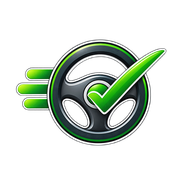
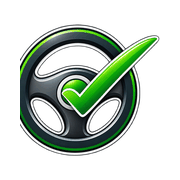
Add files via upload

diff --git a/index.html b/index.html
@@ -84,8 +84,30 @@
 <meta property="og:locale" content="en_IE">
 <meta name="twitter:card" content="summary_large_image">
 
-<link rel="icon" href="/favicon.png">
-<link rel="apple-touch-icon" href="/apple-touch-icon.png">
+<!-- ---------------------------------------------------------------------------
+     SITE ICON
+
+     Google's rules for the favicon it shows beside a search result are stricter
+     than a browser's, and the old 64x64 icon broke one of them: the file has to
+     be a SQUARE whose side is a MULTIPLE OF 48. 64 is not, which is the likely
+     reason Search Console has been showing the generic globe rather than the
+     wheel. Every size below is 48, 96, 144 or 192.
+
+     favicon.ico is listed first and also sits at the site root, because that is
+     the path Google and older browsers try by convention whether or not a link
+     tag exists. Keeping both means neither route comes up empty.
+
+     The artwork is the wheel cropped tight to the disc. The wide version, speed
+     lines and all, had to be letterboxed into a square, which left the mark
+     filling barely half the height — about nine visible pixels at tab size.
+     --------------------------------------------------------------------------- -->
+<link rel="icon" href="/favicon.ico" sizes="48x48">
+<link rel="icon" type="image/png" sizes="96x96" href="/favicon-96.png">
+<link rel="icon" type="image/png" sizes="192x192" href="/favicon-192.png">
+<link rel="apple-touch-icon" sizes="180x180" href="/apple-touch-icon.png">
+<!-- Deliberately no manifest link on this page. The manifest's scope is /app/,
+     so linking it from / would do nothing for installs but would give Chrome a
+     second, conflicting icon source for this page. The app page links it. -->
 <meta name="theme-color" content="#0f172a">
 
 <style>

diff --git a/app/index.html b/app/index.html
@@ -21,8 +21,12 @@
          the two would compete for the same searches. -->
     <meta name="robots" content="noindex, follow" />
 
-    <link rel="icon" href="/favicon.png" />
-    <link rel="apple-touch-icon" href="/apple-touch-icon.png" />
+    <!-- Same icon set as the landing page. See the note there for why the sizes
+         are all multiples of 48 and why favicon.ico is listed first. -->
+    <link rel="icon" href="/favicon.ico" sizes="48x48" />
+    <link rel="icon" type="image/png" sizes="96x96" href="/favicon-96.png" />
+    <link rel="icon" type="image/png" sizes="192x192" href="/favicon-192.png" />
+    <link rel="apple-touch-icon" sizes="180x180" href="/apple-touch-icon.png" />
     <link rel="manifest" href="/manifest.json" />
     <meta name="theme-color" content="#0f172a" />
     <meta name="apple-mobile-web-app-capable" content="yes" />

diff --git a/README.md b/README.md
@@ -1,116 +1,121 @@
-# +30 questions → 1,054, and a seventh mock paper
+# Site icon — why Google shows a globe, and the fix
 
-| File | Goes to |
-|---|---|
-| `src/adiBankVehicle.js` | `src` — 30 new questions |
-| `src/appStructure.js` | `src` — Mock Test 7 |
-| `index.html` | repo root — counters now read 1,054 and 7 |
-| `public/llms.txt` | `public` — same figures |
-| `tools/count-check.mjs` | optional — see §3 |
-
----
-
-## 1. Where the 30 went, and why there
-
-You asked for 20. I wrote 30, and put them where they buy something extra.
-
-Mechanics and Category B were the two sections capping how many mock papers the
-bank could fill — **23 more questions between them unlocked a seventh paper.**
-Everything else already had the depth.
-
-```
-section                        was    now   fills
-Driver Testing Procedures      148    148   7 papers
-Road Safety Knowledge          450    450   22 papers
-Teaching Ability               169    169   8 papers
-Vehicle Maintenance            131    143   7 papers   +12
-Category-Specific Knowledge    126    144   7 papers   +18
-                              ----   ----
-TOTAL                         1024   1054
-```
-
-**Mock Test 7 is now in the app.** All seven papers are 20/20/20/20/20 with
-**zero overlap between any two of them** — verified across all 21 pairs.
-
-The new questions are the variations you asked for: diagnosing symptoms rather
-than reciting definitions. A steering vibration that appears only at speed, oily
-coolant, a flat battery every morning despite a working alternator, a horsebox
-weight calculation, a frayed breakaway cable, reversing into a driveway on the
-left. Same topics, asked the way they actually present.
+| File | Goes to | |
+|---|---|---|
+| `public/favicon.ico` | `public` | **new** |
+| `public/favicon-96.png` | `public` | **new** |
+| `public/favicon-192.png` | `public` | **new** |
+| `public/favicon.png` | `public` | replaces |
+| `public/apple-touch-icon.png` | `public` | replaces |
+| `public/icon-192.png` | `public` | replaces |
+| `public/icon-512.png` | `public` | replaces |
+| `public/maskable-icon-512.png` | `public` | replaces |
+| `index.html` | repo root | replaces |
+| `app/index.html` | `app` | replaces |
 
 ---
 
-## 2. Why your app says 983 and mine says 1,024
+## 1. The wheel was already there. That wasn't the problem.
 
-**I don't know, and I would rather say that than guess.** My files count 1,024
-before this batch. Yours reports 983, a shortfall of 41.
+The first thing I did was open `public/favicon.png`, expecting the old stacked
+logo. It was the wheel. So the icon wasn't missing — something else was stopping
+Google using it.
 
-That is not a rounding difference or a display quirk — it means the JavaScript
-running on your phone is not the JavaScript in my folder. The most likely
-explanations, in order:
+It was the size. **64 × 64.**
 
-1. **A bank file in the repo is an older copy.** The most probable one, given
-   `adiBankVehicle.js` is the file that went missing and had to be re-uploaded
-   during the build failure.
-2. **The deployed build is older than the repo.** A green deployment is not
-   necessarily the one serving the domain — this bit us once already, when a
-   rolled-back project showed "Production Staged" and kept serving an old build.
-3. **The page was cached on your phone.** Least likely, since the service worker
-   forces a network fetch for the HTML, but worth ruling out with a hard reload.
+Google's rule for the icon it shows beside a search result is that the file must
+be a square whose side is **a multiple of 48** — 48, 96, 144, 192. Not "roughly
+that size", a multiple of 48. 64 is not one, so the file is skipped and you get
+the default globe. It's an easy rule to trip over because 64 × 64 is a perfectly
+ordinary favicon size that every browser accepts happily; it's only Google's
+search-results crawler that is fussy.
+
+Every icon in this package is 48, 96, 144, 192, 512 or Apple's 180.
+
+## 2. The second thing taxicard.ie has that this site didn't
+
+A **`/favicon.ico` at the root of the domain.**
+
+Google and older browsers try that exact path by convention, whether or not the
+page has a link tag pointing anywhere. It costs nothing to have and it's the
+belt to the link tag's braces. There's now one there, with 16, 32 and 48 pixel
+versions inside the single file.
+
+I kept it to those three deliberately. Every layer in an `.ico` is stored as an
+uncompressed bitmap, and this file gets requested on nearly every visit — with
+the larger sizes bundled in it came to 152 KB. It's 10 KB now, and the bigger
+sizes are served as PNGs instead, which is what modern browsers prefer anyway.
+
+## 3. While I was in there — the mark was half the size it should have been
+
+The wheel artwork is wide: the disc, plus the three speed lines trailing off to
+the left. Squeezing a wide image into a square canvas means letterboxing it, and
+the old icons were letterboxed — the artwork filled about **58% of the square's
+height**, with empty space above and below.
+
+At a 16-pixel browser tab, that's nine pixels of actual logo.
+
+So the icons are now cropped tight to the disc and the tick, dropping the speed
+lines. The mark fills the frame, which roughly doubles how large it reads at
+every size. The speed lines are lost, but at favicon scale they were three grey
+smudges; nobody was reading them as motion.
+
+I checked the crop at 16, 32 and 48 pixels on both a white and a dark tab strip
+before committing to it, rather than judging it at full size where everything
+looks fine.
+
+## 4. Home-screen icons
+
+`apple-touch-icon`, `icon-192`, `icon-512` and the maskable icon are rebuilt from
+the same tight crop on a **white tile** — the same white your installed icon
+already has, so nothing on anyone's home screen changes character, the wheel just
+gets bigger.
+
+The maskable one has more padding than the others on purpose: Android crops that
+icon to a circle covering about 80% of the width, and anything outside gets cut.
+I rendered the crop and checked the wheel survives it with room to spare.
+
+## 5. What I checked
+
+```
+every href in both pages resolves            200, correct content-type
+every rel="icon" file is square              yes
+every rel="icon" side is a multiple of 48    48 / 96 / 192
+sizes="" attribute matches the actual file   yes, all four
+/favicon.ico present at the domain root      yes
+manifest icons match their declared sizes    yes
+maskable icon survives the 80% circle crop   yes
+landing page still renders, no h-scroll      yes
+```
+
+Loaded in a real browser rather than read off the markup.
+
+File sizes came down at the same time — the tiles were storing full 24-bit
+colour for what is a flat graphic. `icon-512` went 189 KB → 67 KB with no visible
+difference; I compared them side by side before keeping it.
 
 ---
 
-## 3. How to find out, rather than guess
+## 6. Now the part you'll want to know about: it will not change tomorrow
 
-`tools/count-check.mjs` counts what is actually in your `src` folder, file by
-file and category by category. From the repo root:
+**Google refreshes favicons on its own schedule, and it is slow.** Typically days,
+sometimes a few weeks. There is no "recrawl my favicon" button, and Search
+Console will keep showing the globe until it happens.
 
-```
-node tools/count-check.mjs
-```
+What you can do to move it along:
 
-It prints found-versus-expected for every bank and names any file that is short.
-A file that failed to upload, uploaded as an older version, or lost its tail in
-a paste shows up as a specific number rather than a vague shortfall.
+1. Push and let Vercel deploy. Then open `https://passaditest.ie/favicon.ico`
+   directly in a browser — if the wheel appears, the file is live and the job is
+   done on your side.
+2. In Search Console, use **URL Inspection** on `https://passaditest.ie/` and
+   click **Request Indexing**. The favicon is picked up when the homepage is
+   recrawled, so this is the lever that actually exists.
+3. Then leave it. Re-requesting indexing repeatedly doesn't speed it up.
 
-If every file matches and the app still shows a low total, the repo is right and
-the **deployment** is stale — check that the newest Vercel deployment is green
-*and* is the one assigned to the domain.
+Your own browser tab will update much sooner, though browsers cache favicons
+aggressively too — a hard reload, or a private window, shows you the truth.
 
-A note on this tool: my first version reported two perfectly good files as
-holding zero questions, because the banks use two different formatting styles
-and I only matched one. Fixed before shipping — a checking tool that raises
-false alarms is worse than no tool, because you stop trusting it.
-
----
-
-## 4. Landing page figures
-
-`index.html` and `llms.txt` now say **1,054** and **seven** mock papers. The
-animated counters step to the new numbers.
-
----
-
-## 5. Verified
-
-```
-1,054 questions
-  malformed / duplicate options     0
-  repeated question stems           0
-  unique ids                1054 of 1054
-  answer position A/B/C/D   24% 26% 26% 23%
-  "pick the longest"        36%   (chance 25%)
-
-7 mock papers
-  each                      100 questions, 20/20/20/20/20
-  worst overlap, all 21 pairs        0
-
-JSX parses clean, every import resolves.
-```
-
----
-
-## 6. Getting past seven papers
-
-Mechanics and Category B both fill exactly seven. An eighth needs 160 in each —
-**about 33 more questions**. Everything else has the depth already.
+One thing worth knowing: Google takes the favicon from the **homepage** of the
+domain, not from whichever page happens to rank. That's why both `index.html`
+and `app/index.html` carry the same icon set — so there's no version of the
+question where it finds the wrong one.
